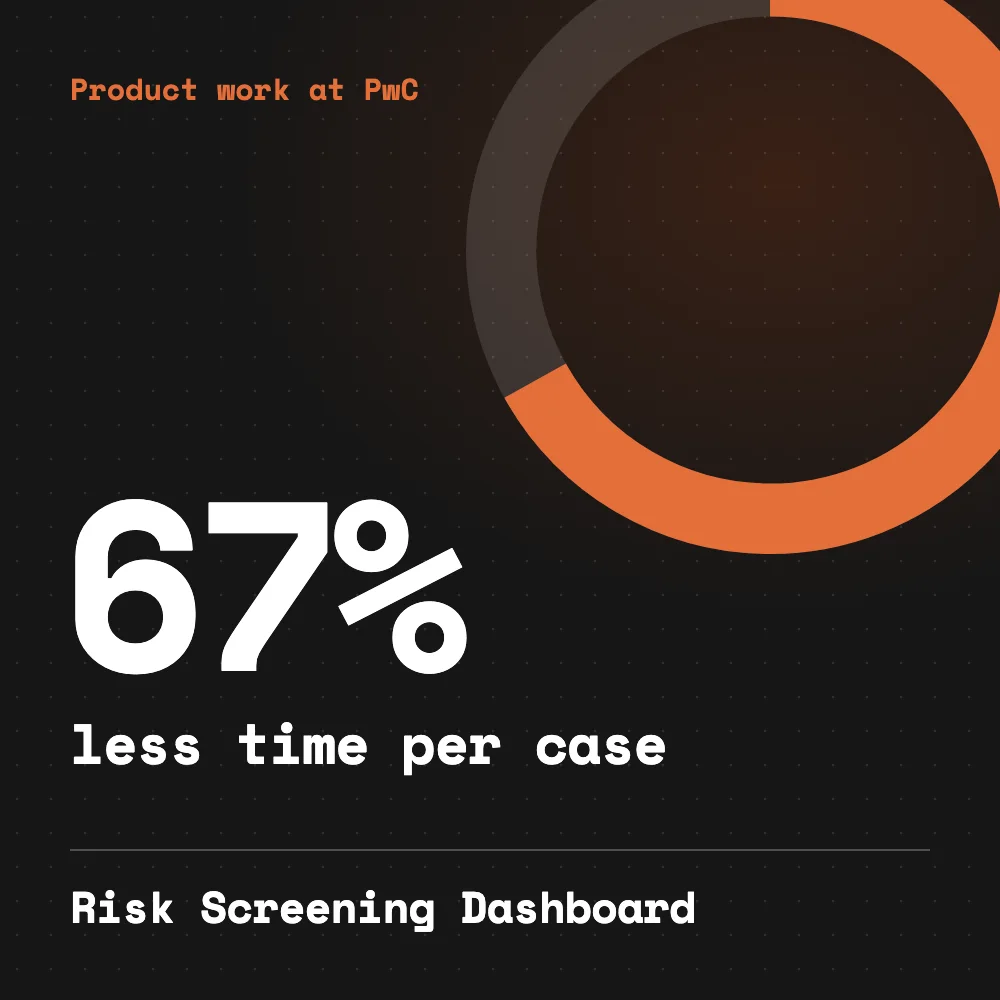
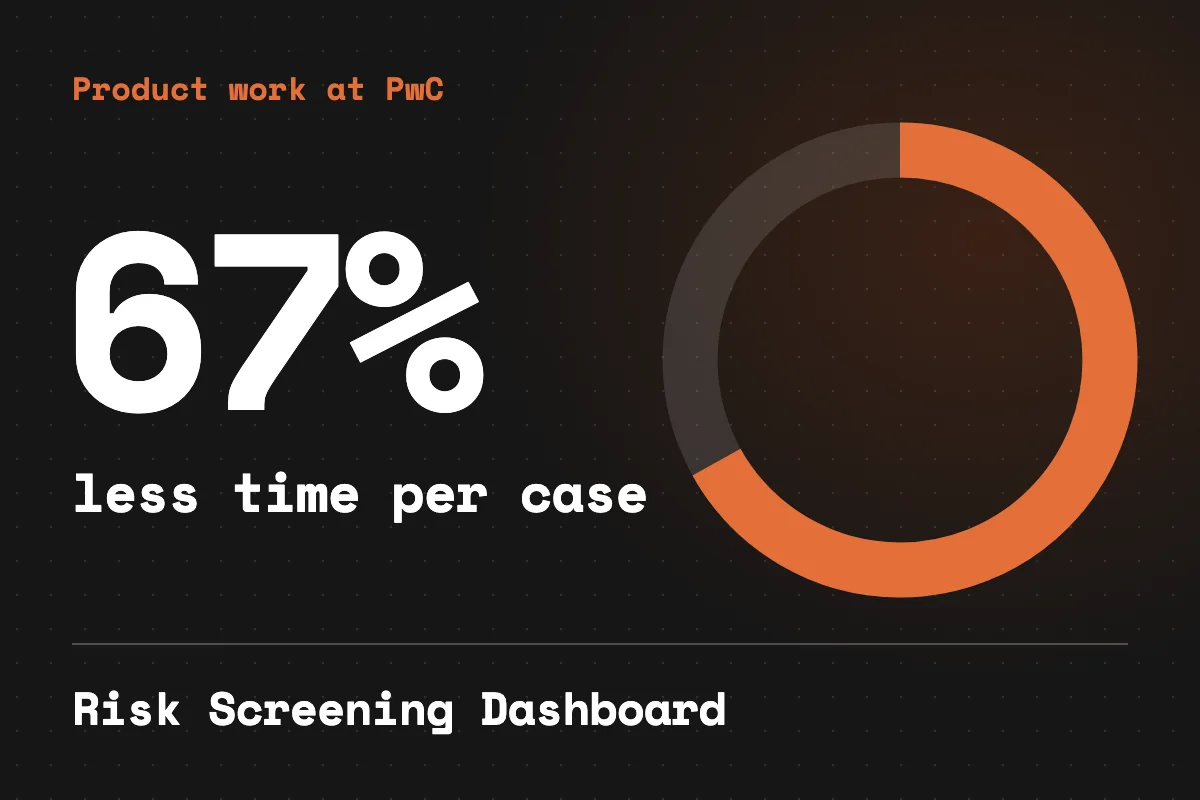
Make project posters wide and shrink the About heading
Redraw all six posters at 3:2, give AI Teammates its own green design, and take
25% off the About heading.

diff --git a/final/projects.html b/final/projects.html
@@ -403,6 +403,6 @@
     <div class="links"><a href="./#about">About</a><a href="projects.html">Projects</a><a href="./#contact">Contact</a><a href="resume.html">Resume ↗</a></div>
   </nav>
 
-<header class="page-head"><a class="back" href="./">← Home</a><div class="page-head-row"><div><h1>Projects</h1></div><img class="sofa-pic" src="img/sofa.webp" alt="Illustration of Manyata lying upside down on an armchair, waving" loading="lazy"></div></header><ul class="posters" aria-label="Projects"><li><a class="poster" href="project-pwc.html"><img src="img/poster-pwc.webp" width="1000" height="1000" alt="Risk Screening Dashboard, product work at PwC: 67% less time per case" loading="lazy" decoding="async"></a></li><li><a class="poster" href="project-adhikaar.html"><img src="img/poster-adhikaar.webp" width="1000" height="1000" alt="Adhikaar: Money left behind shouldn't stay lost." loading="lazy" decoding="async"></a></li><li><a class="poster" href="project-vantage.html"><img src="img/poster-vantage.webp" width="1000" height="1000" alt="Vantage AI: Turn the ask into the right move." loading="lazy" decoding="async"></a></li><li><a class="poster" href="project-shravan.html"><img src="img/poster-shravan.webp" width="1000" height="1000" alt="The Shravan's Round: Rehearse the round before the round." loading="lazy" decoding="async"></a></li><li><a class="poster" href="project-hamsty.html"><img src="img/poster-hamsty.webp" width="1000" height="1000" alt="Hamsty: Your Voucher Keeper. Save. Swap. Share." loading="lazy" decoding="async"></a></li><li><a class="poster" href="project-teammates.html"><img src="img/poster-teammates.webp" width="1000" height="1000" alt="AI Teammates: lead or failed payment, AI agent, person" loading="lazy" decoding="async"></a></li></ul><section class="samples" style="margin-top:64px"><h2>Work samples</h2><div class="samples-row"><a class="sample" href="prd-adhikaar.html"><b>Adhikaar PRD ↗</b><span>Full product requirements document, with research, MVP scope and metrics.</span></a><a class="sample" href="prd-vantage.html"><b>Vantage PRD ↗</b><span>Full product requirements document, with 9 interviews and the pilot results.</span></a><a class="sample" href="resume.html"><b>Resume ↗</b><span>Experience, education and skills.</span></a></div></section><div style="height:100px"></div></div>
+<header class="page-head"><a class="back" href="./">← Home</a><div class="page-head-row"><div><h1>Projects</h1></div><img class="sofa-pic" src="img/sofa.webp" alt="Illustration of Manyata lying upside down on an armchair, waving" loading="lazy"></div></header><ul class="posters" aria-label="Projects"><li><a class="poster" href="project-pwc.html"><img src="img/poster-pwc.webp" width="1200" height="800" alt="Risk Screening Dashboard, product work at PwC: 67% less time per case" loading="lazy" decoding="async"></a></li><li><a class="poster" href="project-adhikaar.html"><img src="img/poster-adhikaar.webp" width="1200" height="800" alt="Adhikaar: Money left behind shouldn't stay lost." loading="lazy" decoding="async"></a></li><li><a class="poster" href="project-vantage.html"><img src="img/poster-vantage.webp" width="1200" height="800" alt="Vantage AI: Turn the ask into the right move." loading="lazy" decoding="async"></a></li><li><a class="poster" href="project-shravan.html"><img src="img/poster-shravan.webp" width="1200" height="800" alt="The Shravan's Round: Rehearse the round before the round." loading="lazy" decoding="async"></a></li><li><a class="poster" href="project-hamsty.html"><img src="img/poster-hamsty.webp" width="1200" height="800" alt="Hamsty: Your Voucher Keeper. Save. Swap. Share." loading="lazy" decoding="async"></a></li><li><a class="poster" href="project-teammates.html"><img src="img/poster-teammates.webp" width="1200" height="800" alt="AI Teammates: two AI agents for a payments company. Lead or failed payment, AI agent, person." loading="lazy" decoding="async"></a></li></ul><section class="samples" style="margin-top:64px"><h2>Work samples</h2><div class="samples-row"><a class="sample" href="prd-adhikaar.html"><b>Adhikaar PRD ↗</b><span>Full product requirements document, with research, MVP scope and metrics.</span></a><a class="sample" href="prd-vantage.html"><b>Vantage PRD ↗</b><span>Full product requirements document, with 9 interviews and the pilot results.</span></a><a class="sample" href="resume.html"><b>Resume ↗</b><span>Experience, education and skills.</span></a></div></section><div style="height:100px"></div></div>
 
 </body></html>

diff --git a/final/index.html b/final/index.html
@@ -480,7 +480,7 @@
   .home-work.arriving { animation: work-arrive .9s cubic-bezier(.2,.7,.2,1) both; }
   @keyframes work-arrive { from { opacity: 0; transform: translateY(80px); } to { opacity: 1; transform: none; } }
   @media (prefers-reduced-motion: reduce) { .sky-hero, .sky-hero.leaving, .home-work.arriving { transition: none; animation: none; transform: none; } }
-</style><section class="home-work" id="work" aria-labelledby="work-title"><div class="sec-head"><h2 id="work-title">Projects</h2><a class="back" href="projects.html">See all projects →</a></div><ul class="posters" aria-label="Projects"><li><a class="poster" href="project-pwc.html"><img src="img/poster-pwc.webp" width="1000" height="1000" alt="Risk Screening Dashboard, product work at PwC: 67% less time per case" loading="lazy" decoding="async"></a></li><li><a class="poster" href="project-adhikaar.html"><img src="img/poster-adhikaar.webp" width="1000" height="1000" alt="Adhikaar: Money left behind shouldn't stay lost." loading="lazy" decoding="async"></a></li><li><a class="poster" href="project-vantage.html"><img src="img/poster-vantage.webp" width="1000" height="1000" alt="Vantage AI: Turn the ask into the right move." loading="lazy" decoding="async"></a></li><li><a class="poster" href="project-shravan.html"><img src="img/poster-shravan.webp" width="1000" height="1000" alt="The Shravan's Round: Rehearse the round before the round." loading="lazy" decoding="async"></a></li><li><a class="poster" href="project-hamsty.html"><img src="img/poster-hamsty.webp" width="1000" height="1000" alt="Hamsty: Your Voucher Keeper. Save. Swap. Share." loading="lazy" decoding="async"></a></li><li><a class="poster" href="project-teammates.html"><img src="img/poster-teammates.webp" width="1000" height="1000" alt="AI Teammates: lead or failed payment, AI agent, person" loading="lazy" decoding="async"></a></li></ul></section>
+</style><section class="home-work" id="work" aria-labelledby="work-title"><div class="sec-head"><h2 id="work-title">Projects</h2><a class="back" href="projects.html">See all projects →</a></div><ul class="posters" aria-label="Projects"><li><a class="poster" href="project-pwc.html"><img src="img/poster-pwc.webp" width="1200" height="800" alt="Risk Screening Dashboard, product work at PwC: 67% less time per case" loading="lazy" decoding="async"></a></li><li><a class="poster" href="project-adhikaar.html"><img src="img/poster-adhikaar.webp" width="1200" height="800" alt="Adhikaar: Money left behind shouldn't stay lost." loading="lazy" decoding="async"></a></li><li><a class="poster" href="project-vantage.html"><img src="img/poster-vantage.webp" width="1200" height="800" alt="Vantage AI: Turn the ask into the right move." loading="lazy" decoding="async"></a></li><li><a class="poster" href="project-shravan.html"><img src="img/poster-shravan.webp" width="1200" height="800" alt="The Shravan's Round: Rehearse the round before the round." loading="lazy" decoding="async"></a></li><li><a class="poster" href="project-hamsty.html"><img src="img/poster-hamsty.webp" width="1200" height="800" alt="Hamsty: Your Voucher Keeper. Save. Swap. Share." loading="lazy" decoding="async"></a></li><li><a class="poster" href="project-teammates.html"><img src="img/poster-teammates.webp" width="1200" height="800" alt="AI Teammates: two AI agents for a payments company. Lead or failed payment, AI agent, person." loading="lazy" decoding="async"></a></li></ul></section>
   <section class="how" aria-labelledby="how-title">
     <div class="sec-head"><h2 id="how-title">How I work</h2></div>
     <div class="how-grid">

diff --git a/final/posters.css b/final/posters.css
@@ -1,10 +1,10 @@
 /* project posters: a 3 by 2 grid of square tiles, each a full-bleed poster of the project */
-.posters { display: grid; grid-template-columns: repeat(3, minmax(0, 1fr)); gap: clamp(12px, 1.5vw, 20px); width: 64%; margin: 0 auto; padding: 0; list-style: none; }
+.posters { display: grid; grid-template-columns: repeat(3, minmax(0, 1fr)); gap: clamp(12px, 1.5vw, 20px); width: 78%; margin: 0 auto; padding: 0; list-style: none; }
 /* same gold as the hero photo frame */
-.poster { display: block; aspect-ratio: 1; overflow: hidden; border: 4px solid #c9a227; border-radius: 24px; box-shadow: 0 0 0 1px rgba(201, 162, 39, .35), 0 6px 22px rgba(201, 162, 39, .38); transition: transform .25s cubic-bezier(.2,.8,.2,1), box-shadow .25s cubic-bezier(.2,.8,.2,1); }
+.poster { display: block; aspect-ratio: 3 / 2; overflow: hidden; border: 4px solid #c9a227; border-radius: 24px; box-shadow: 0 0 0 1px rgba(201, 162, 39, .35), 0 6px 22px rgba(201, 162, 39, .38); transition: transform .25s cubic-bezier(.2,.8,.2,1), box-shadow .25s cubic-bezier(.2,.8,.2,1); }
 .poster img { display: block; width: 100%; height: 100%; object-fit: cover; }
 .poster:hover { transform: translateY(-5px); box-shadow: 0 0 0 2px rgba(201, 162, 39, .55), 0 10px 30px rgba(201, 162, 39, .6); }
 .poster:focus-visible { outline: 3px solid var(--sun); outline-offset: 3px; }
-@media (max-width: 860px) { .posters { grid-template-columns: repeat(2, minmax(0, 1fr)); } }
-@media (max-width: 560px) { .posters { grid-template-columns: minmax(0, 1fr); width: 80%; } .poster { border-radius: 18px; } }
+@media (max-width: 860px) { .posters { grid-template-columns: repeat(2, minmax(0, 1fr)); width: 100%; } }
+@media (max-width: 560px) { .posters { grid-template-columns: minmax(0, 1fr); width: 92%; } .poster { border-radius: 18px; } }
 @media (prefers-reduced-motion: reduce) { .poster { transition: none; } .poster:hover { transform: none; } }

diff --git a/final/about.css b/final/about.css
@@ -1,7 +1,7 @@
 /* about: big centred heading, four pictures that slide in from the corners, text that lights up as you scroll */
 .about.ab { position: relative; display: flex; flex-direction: column; align-items: center; justify-content: center; gap: clamp(64px, 8vw, 96px); min-height: 100vh; padding-block: 80px; overflow-x: clip; text-align: center; }
 .ab-copy { position: relative; z-index: 1; display: flex; flex-direction: column; align-items: center; gap: clamp(40px, 5vw, 64px); }
-.ab #about-title { margin: 0; font-size: clamp(3rem, 12vw, 160px); line-height: 1; letter-spacing: -0.03em; text-transform: uppercase; }
+.ab #about-title { margin: 0; font-size: clamp(2.25rem, 9vw, 120px); line-height: 1; letter-spacing: -0.03em; text-transform: uppercase; }
 .ab-text { max-width: 560px; margin: 0; font-size: clamp(16px, 2vw, 21.6px); font-weight: 500; line-height: 1.65; }
 .ab-text .w { white-space: nowrap; }
 .ab-sr { position: absolute; width: 1px; height: 1px; overflow: hidden; clip-path: inset(50%); white-space: nowrap; }
